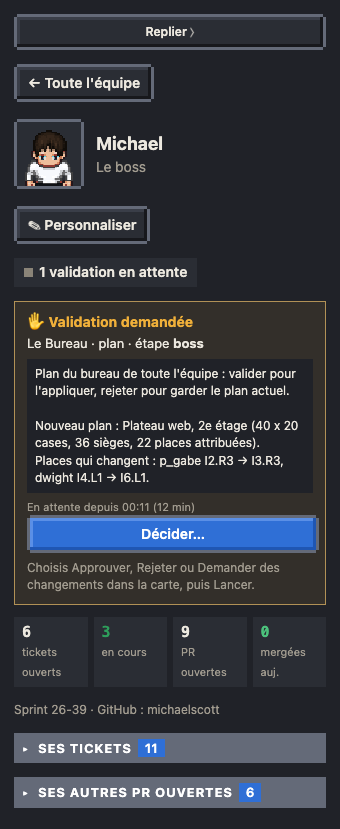
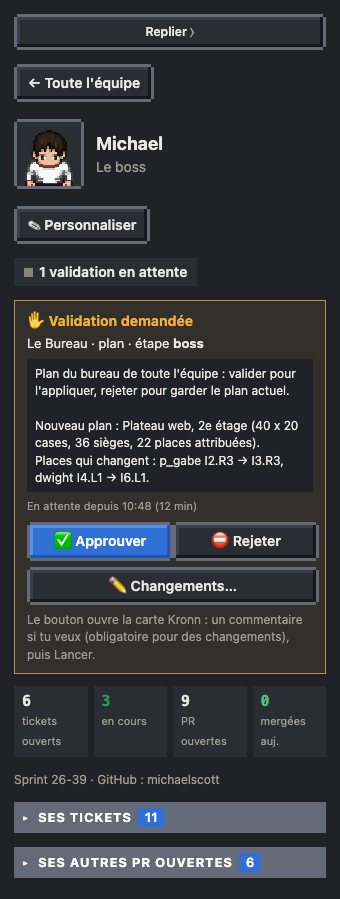
feat(page): trois boutons directs sur chaque validation (#49)
## 🎯 Quoi et pourquoi
Décider une validation demandait trois gestes : « Décider… », choisir
dans le menu « Décision » de la carte Kronn, puis Lancer. Trois boutons
directs, comme pour les réponses aux questions, font choisir la décision
d'un clic (#45).

## 🔧 Changements
- **Page** (`page/src/55-actions.js`) : ✅ Approuver, ⛔ Rejeter (côte à
côte) et ✏ Changements… (dessous) sur chaque carte de validation (fiche
du boss, du personnage qui porte la gate, validations sans personnage).
Chaque bouton a son emplacement : la fenêtre centrée rappelle le
workflow et la décision, la carte Kronn prend le commentaire
(obligatoire pour des changements) puis Lancer.
- **Cron live** (`workflows/gates_snapshot.py`) : `gates.grows`, une
ligne par gate et par décision (`{id: "<run>|<décision>", run,
decision}`).
- **Action de page** `bureau-gate` : `run_id` et `decision` sont deux
liaisons dynamiques sur la même ligne de `grows` (Kronn résout chaque
variable avec sa propre clé) ; plus rien à choisir dans un menu.
`gate_decide.py` ne change pas (en-tête mis à jour) et refuse toujours
une décision périmée ou des changements sans commentaire.
- « En attente depuis » suit l'heure de la page (rejeu compris) au lieu
de l'heure réelle.
- Doc : guides `01-plan` et `07-fiches`, séquence
`docs/architecture/sequences/decision-gate.md`, CHANGELOG ; capture
`validation-plan.png` (gate datée dans la journée de démo).

## 🧪 Tests
- [x] `sh tools/test.sh --chrome` vert (aucun `console.error`)
[…]

Changed region(s): [[0.0294, 0.0302, 0.9706, 0.9952], [0.9412, 0.3317, 0.9706, 0.3619]]

diff --git a/page/src/55-actions.js b/page/src/55-actions.js
@@ -65,11 +65,12 @@ function renderLoneGate(side,run){
   if(!g){const n=document.createElement('div');n.className='note';n.textContent='Cette validation n\'attend plus (déjà décidée).';side.appendChild(n);return;}
   gateCard(side,{run:g.run,wf_name:g.wf_name,_s:ms(g.since)},null);
 }
-// carte de décision d'une gate : le bouton ouvre la carte Kronn (workflow « Le Bureau · décision gate »)
+// carte de décision d'une gate : trois boutons directs (approuver, rejeter, changements, #45), chacun lié à sa ligne de
+// gates.grows ; chacun ouvre la carte Kronn (workflow « Le Bureau · décision gate ») pour un commentaire et Lancer
 function gateCard(parent,run,who){
   const g=GATES.find(x=>x.run===run.run);
-  const box=document.createElement('div');box.className='gatecard';box.setAttribute('data-kronn-action-slot-host','');
-  const since=g&&g.since?ms(g.since):run._s, mins=Math.max(0,Math.round((Date.now()-since)/60e3));
+  const box=document.createElement('div');box.className='gatecard';
+  const since=g&&g.since?ms(g.since):run._s, mins=Math.max(0,Math.round((T-since)/60e3)); // à l'heure de la page (rejeu compris)
   box.innerHTML=`<div class="gt">✋ Validation demandée${who?' · '+esc(who):''}</div><div class="gw">${esc(clean(run.wf_name))}${g?' · étape <b>'+esc(g.gate)+'</b>':''}</div>`+
     (g&&g.message?`<div class="gm">${esc(g.message)}</div>`:'')+`<div class="gs">En attente depuis ${hm(since)}${mins?' ('+fmtDur(mins*60e3)+')':''}</div>`;
   const dk=g?g.run+'|'+g.gate:null;
@@ -88,25 +89,32 @@ function gateCard(parent,run,who){
     box.appendChild(n);
   }
   else if(g){
-    const b=document.createElement('button');
-    b.className='on';
-    b.textContent='Décider…';
-    let clicked=false;
-    b.addEventListener('click',()=>{clicked=true;});
-    b.setAttribute('data-kronn-action','bureau-gate');
-    b.setAttribute('data-kronn-bindings',JSON.stringify({run_id:g.run})); // clé = nom du champ relu ; valeur = la ligne du dataset (find(run)) ; workflow et étape retrouvés par le script
     const st=document.createElement('div');
     st.className='note';
     st.style.margin='6px 0 0';
-    st.textContent='Choisis Approuver, Rejeter ou Demander des changements dans la carte, puis Lancer.';
-    new MutationObserver(()=>{
-      const v=b.getAttribute('data-kronn-action-state');
-      if(v==='succeeded'){
-        st.innerHTML='<b style="color:var(--ok)">✓ Décision appliquée.</b> L\'agent reprend d\'ici une minute sur le plan.';
-        if(clicked&&!DECIDED[dk]){DECIDED[dk]=Date.now();saveDecided();}
-      }else if(v==='failed')st.innerHTML='<b style="color:var(--err)">Décision refusée par Kronn</b> (gate déjà décidée ?). Détail dans la carte.';
-    }).observe(b,{attributes:true,attributeFilter:['data-kronn-action-state']});
-    box.append(b,st);kronnModal(box,b,'Décision de gate');}
+    st.textContent='Le bouton ouvre la carte Kronn : un commentaire si tu veux (obligatoire pour des changements), puis Lancer.';
+    const row=document.createElement('div');row.className='gq';
+    // un emplacement par bouton (comme les réponses aux questions) : la fenêtre centrée montre la décision choisie
+    for(const [d,label,cls] of [['approve','✅ Approuver','on'],['reject','⛔ Rejeter',''],['request_changes','✏ Changements…','']]){
+      const w=document.createElement('div');w.className='qslot';w.setAttribute('data-kronn-action-slot-host','');
+      const b=document.createElement('button');b.textContent=label;if(cls)b.className=cls;
+      const qk=document.createElement('div');qk.className='qkm';qk.innerHTML=`<b>${esc(clean(run.wf_name))}${g.gate?' · étape '+esc(g.gate):''}</b><div>Ta décision : ${label}</div>`;
+      w.append(b,qk);
+      let clicked=false;
+      b.addEventListener('click',()=>{clicked=true;});
+      b.setAttribute('data-kronn-action','bureau-gate');
+      const row_id=g.run+'|'+d; // ligne de gates.grows : Kronn y relit run_id et decision
+      b.setAttribute('data-kronn-bindings',JSON.stringify({run_id:row_id,decision:row_id}));
+      new MutationObserver(()=>{
+        const v=b.getAttribute('data-kronn-action-state');
+        if(v==='succeeded'){
+          st.innerHTML='<b style="color:var(--ok)">✓ Décision appliquée.</b> L\'agent reprend d\'ici une minute sur le plan.';
+          if(clicked&&!DECIDED[dk]){DECIDED[dk]=Date.now();saveDecided();}
+        }else if(v==='failed')st.innerHTML='<b style="color:var(--err)">Décision refusée par Kronn</b> (gate déjà décidée ?). Détail dans la carte.';
+      }).observe(b,{attributes:true,attributeFilter:['data-kronn-action-state']});
+      kronnModal(w,b,'Décision de gate');row.appendChild(w);
+    }
+    box.append(row,st);}
   else{
     const n=document.createElement('div');
     n.className='note';

diff --git a/page/office_template.html b/page/office_template.html
@@ -92,7 +92,7 @@
 <div id="tvwho" aria-live="off"></div>
 <script type="application/kronn-action" data-action-id="bureau-ask">{"kind":"quick_prompt","target_id":"__ASK_QP__","values":[{"name":"wf_id","provenance":"dynamic_binding","source_ref":"<page.dataset.gates.askable.find(wf).wf>"},{"name":"question","provenance":"user_input"}]}</script>
 <script type="application/kronn-action" data-action-id="bureau-relaunch">{"kind":"workflow","target_id":"__RELAUNCH_WF__","values":[{"name":"wf_id","provenance":"dynamic_binding","source_ref":"<page.dataset.gates.workflows.find(wf).wf>"}]}</script>
-<script type="application/kronn-action" data-action-id="bureau-gate">{"kind":"workflow","target_id":"__GATE_WF__","values":[{"name":"run_id","provenance":"dynamic_binding","source_ref":"<page.dataset.gates.gates.find(run).run>"},{"name":"decision","provenance":"user_input"},{"name":"comment","provenance":"user_input"}]}</script>
+<script type="application/kronn-action" data-action-id="bureau-gate">{"kind":"workflow","target_id":"__GATE_WF__","values":[{"name":"run_id","provenance":"dynamic_binding","source_ref":"<page.dataset.gates.grows.find(id).run>"},{"name":"decision","provenance":"dynamic_binding","source_ref":"<page.dataset.gates.grows.find(id).decision>"},{"name":"comment","provenance":"user_input"}]}</script>
 <script type="application/kronn-action" data-action-id="bureau-answer">{"kind":"workflow","target_id":"__ANSWER_WF__","values":[{"name":"choice","provenance":"dynamic_binding","source_ref":"<page.dataset.gates.qrows.find(id).id>"},{"name":"text","provenance":"user_input"}]}</script>
 <script type="application/kronn-action" data-action-id="bureau-impl">{"kind":"workflow","target_id":"__IMPL_WF__","values":[{"name":"jira_ticket_key","provenance":"dynamic_binding","source_ref":"<page.dataset.actions.tickets.find(key).key>"}]}</script>
 <script type="application/kronn-action" data-action-id="bureau-mep">{"kind":"workflow","target_id":"__MEP_WF__","values":[{"name":"jira_ticket_key","provenance":"dynamic_binding","source_ref":"<page.dataset.actions.tickets.find(key).key>"},{"name":"pr_number","provenance":"dynamic_binding","source_ref":"<page.dataset.actions.tickets.find(key).pr>"}]}</script>

diff --git a/tests/boot.test.js b/tests/boot.test.js
@@ -120,3 +120,18 @@ test('panneau : pas de redessin automatique pendant un clic, le bouton cliqué r
   run('sideHold(false,11800)'); // relâchement sans appui dans le panneau : rien à retenir
   assert.equal(draws('renderSide()'), 1);
 });
+
+test('validation : trois boutons directs, chacun lié à sa ligne de gates.grows (run_id et decision relus par Kronn)', () => {
+  const {run} = load();
+  run(`document.createElement = t => ({tag: t, attrs: {}, kids: [], className: '', style: {}, setAttribute(k, v) { this.attrs[k] = v; },
+    getAttribute(k) { return this.attrs[k]; }, appendChild(x) { this.kids.push(x); }, append(...x) { this.kids.push(...x); }, addEventListener() {}});
+    MutationObserver = function () { return {observe() {}}; }; DECIDED = {}; ACTIONS.gate = true;
+    GATES = [{run: 'r1', wf: 'w1', wf_name: 'Le Bureau · plan', gate: 'boss', since: new Date(T - 12 * 60e3).toISOString(), message: 'Nouveau plan'}];
+    var P = {kids: [], appendChild(x) { this.kids.push(x); }}; gateCard(P, {run: 'r1', wf_name: 'Le Bureau · plan', _s: T}, null);`);
+  const btns = JSON.parse(run(`JSON.stringify((() => { const out = [], walk = e => { if (e.tag === 'button') out.push([e.textContent, e.attrs]);
+    (e.kids || []).forEach(walk); }; walk(P.kids[0]); return out; })())`));
+  assert.deepEqual(btns.map(([t]) => t), ['✅ Approuver', '⛔ Rejeter', '✏ Changements…']);
+  for (const [, a] of btns) assert.equal(a['data-kronn-action'], 'bureau-gate');
+  assert.deepEqual(btns.map(([, a]) => JSON.parse(a['data-kronn-bindings'])), ['approve', 'reject', 'request_changes'].map(d => ({run_id: 'r1|' + d, decision: 'r1|' + d})));
+  assert.match(run('P.kids[0].innerHTML'), /En attente depuis .* \(12 min\)/, 'durée à l\'heure de la page');
+});

diff --git a/page/src/styles.css b/page/src/styles.css
@@ -209,6 +209,10 @@ body.km-on .side{z-index:50} /* le panneau est sticky (plan d'empilement propre)
 .gatecard .gw{font-size:13px}
 .gatecard .gm{font-size:12px;margin:6px 0;padding:6px 8px;background:var(--panel);border-radius:8px;white-space:pre-wrap;overflow-wrap:anywhere}
 .gatecard .gs{font-size:11px;color:var(--muted)}
+/* trois décisions directes (#45) : Approuver et Rejeter côte à côte, Changements dessous ; le rappel de la décision
+   (qkm) ne s'affiche que dans la fenêtre centrée */
+.gatecard .gq{display:grid;grid-template-columns:1fr 1fr;gap:6px;margin-top:8px}.gatecard .gq>.qslot:last-child{grid-column:1/3}
+.gatecard .gq button{width:100%;white-space:nowrap}.gatecard .qkm{display:none}
 .gatecard>button{width:100%;margin-top:8px}
 .qcard .qopts{display:flex;flex-direction:column;gap:6px;margin-top:8px}
 .qcard .qopts>.qslot>button{text-align:left;width:100%}

diff --git a/workflows/gates_snapshot.py b/workflows/gates_snapshot.py
@@ -3,7 +3,8 @@
 Sortie (stdout, JSON parsé par l'étape CollectApiData) :
   {generated_at, gates: [{run, wf, wf_name, gate, message, since}], workflows: [{wf, name, trigger}], askable: [{wf, name}],
    projects: [{id, name}], ducks: [{id, title, project, updated, created, awaiting}],
-   questions: [{id, disc, title, agent, bureau, since, question, context, options, rec, multiple, items, more_items}], qrows: [{id, q, disc}]}
+   questions: [{id, disc, title, agent, bureau, since, question, context, options, rec, multiple, items, more_items}], qrows: [{id, q, disc}],
+   grows: [{id, run, decision}]}
 `workflows` = ceux que la page peut relancer (page action « bureau-relaunch ») : actifs, hors Bureau, pas
 sous-workflow d'un autre, sans variable obligatoire à saisir.
 `projects` = les projets Kronn, « Sans projet » (id « none ») en tête : un bouton « parler au canard » chacun (page action
@@ -125,5 +126,8 @@ try:
     json.dump({k: v for k, v in _cache.items() if k in defs}, open(CACHE, "w"))
 except Exception:
     pass
+# une ligne par décision possible de chaque gate (#45) : les boutons directs de la page (approuver, rejeter, changements)
+# en désignent une, Kronn y relit run_id et decision (page action « bureau-gate »), jamais saisis
+grows = [{"id": f"{g['run']}|{d}", "run": g["run"], "decision": d} for g in gates for d in ("approve", "reject", "request_changes")]
 print(json.dumps({"generated_at": datetime.now(timezone.utc).isoformat(), "gates": gates, "workflows": relaunch, "askable": askable,
-                  "projects": projects, "ducks": ducks, "questions": questions, "qrows": qrows}, ensure_ascii=False))
+                  "projects": projects, "ducks": ducks, "questions": questions, "qrows": qrows, "grows": grows}, ensure_ascii=False))

diff --git a/tools/shots.py b/tools/shots.py
@@ -113,7 +113,7 @@ SHOTS = {
     "avatar": (1400, 1600, AT(11) + "select('jim');openEditor(byKey.jim);", "#side"),
     # plan d'équipe proposé par « python3 tools/plan.py share » : la validation dans la fiche du boss (pas de personnage pour ce workflow)
     "validation-plan": (1400, 1200, AT(11) + "GATES=[{run:'demo',wf:'00000000-demo',wf_name:'Le Bureau · plan',gate:'boss',"
-                        "since:new Date(Date.now()-12*60e3).toISOString(),message:\"Plan du bureau de toute l'équipe : valider pour l'appliquer, rejeter pour garder le plan actuel.\\n\\n"
+                        "since:new Date(DAY0+10.8*36e5).toISOString(),message:\"Plan du bureau de toute l'équipe : valider pour l'appliquer, rejeter pour garder le plan actuel.\\n\\n"
                         "Nouveau plan : Plateau web, 2e étage (40 x 20 cases, 36 sièges, 22 places attribuées).\\n"
                         "Places qui changent : p_gabe I2.R3 → I3.R3, dwight I4.L1 → I6.L1.\"}];select(chars.find(c=>c.boss).key);", "#side"),
     # la même validation vue sur le plan : le boss reste à son bureau avec la bulle ✋1 (zone rognée posée sur la toile, comme canard-attend)

diff --git a/workflows/gate_decide.py b/workflows/gate_decide.py
@@ -1,9 +1,9 @@
 """Décide une gate depuis la page Le Bureau (page action « bureau-gate »).
 
 Arguments : run_id decision [comment]
-  run_id : relu par Kronn dans le dataset `gates` (ligne cliquée), jamais saisi ; le workflow et l'étape
-           sont retrouvés ici dans ce même dataset (un seul champ automatique dans la carte)
-  decision : approve | reject | request_changes (menu de la carte)
+  run_id, decision : relus par Kronn dans la ligne cliquée de `gates.grows` (un bouton par décision : approve |
+           reject | request_changes), jamais saisis ; le workflow et l'étape sont retrouvés ici dans `gates.gates`
+  comment : saisi dans la carte (obligatoire pour demander des changements)
 Appelle POST /api/workflows/{wf}/runs/{run}/decide avec gate_step : Kronn refuse si le run
 n'attend plus CETTE gate (décision périmée), donc rien d'autre ne peut être validé par erreur.
 """

diff --git a/tests/test_scripts.py b/tests/test_scripts.py
@@ -757,6 +757,8 @@ print(json.dumps(d.get(key, [])))
         fake.details[run["id"]] = [{"step_name": "gate", "status": "WaitingApproval", "output": "Nouveau plan : 36 sièges"}]
         gates = self.run_script("gates_snapshot.py", api=self.kronn(fake))
         self.assertEqual([g["message"] for g in gates["gates"]], ["Nouveau plan : 36 sièges"])
+        # une ligne par décision (boutons directs de la page, #45) : Kronn y relit run_id et decision
+        self.assertEqual(gates["grows"], [{"id": f"{run['id']}|{d}", "run": run["id"], "decision": d} for d in ("approve", "reject", "request_changes")])
 
     def test_standup_since_format(self):
         r = subprocess.run([sys.executable, os.path.join(ROOT, "workflows", "standup_since.py")], capture_output=True, text=True,

diff --git a/docs/architecture/sequences/decision-gate.md b/docs/architecture/sequences/decision-gate.md
@@ -1,6 +1,6 @@
 # Décider une gate depuis la page
 
-Cette séquence décrit comment le boss approuve, rejette ou renvoie une gate d'un workflow d'agent depuis la page. Elle commence au clic sur une carte de gate (bouton `data-kronn-action="bureau-gate"`, lié à la ligne `run` du dataset `gates`) [src: file: page/src/55-actions.js:96] et se termine quand Kronn a changé le statut du run et que le cron live republie `gates` sans cette ligne. Elle touche la page, Kronn (action de page et workflow manuel « Le Bureau · décision gate ») et le script `gate_decide.py` [src: file: workflows/templates/gate.json:8].
+Cette séquence décrit comment le boss approuve, rejette ou renvoie une gate d'un workflow d'agent depuis la page. Elle commence au clic sur un des trois boutons d'une carte de gate (Approuver, Rejeter, Changements ; `data-kronn-action="bureau-gate"`, chacun lié à sa ligne de `gates.grows`) [src: file: page/src/55-actions.js:105] et se termine quand Kronn a changé le statut du run et que le cron live republie `gates` sans cette ligne. Elle touche la page, Kronn (action de page et workflow manuel « Le Bureau · décision gate ») et le script `gate_decide.py` [src: file: workflows/templates/gate.json:8].
 
 ```mermaid
 sequenceDiagram
@@ -11,10 +11,10 @@ sequenceDiagram
     participant Script as gate_decide.py
     participant Api as Kronn API locale
 
-    Boss->>Page: clic sur la carte de gate
-    Page->>Kronn: data-kronn-action bureau-gate avec run_id
-    Kronn-->>Boss: carte avec decision et commentaire
-    Boss->>Kronn: approve, reject ou request_changes
+    Boss->>Page: clic sur Approuver, Rejeter ou Changements
+    Page->>Kronn: data-kronn-action bureau-gate, ligne run et decision de grows
+    Kronn-->>Boss: carte avec la decision et un commentaire
+    Boss->>Kronn: Lancer
     Kronn->>Wf: lance le workflow avec run_id, decision, comment
     Wf->>Script: python3 -c avec les trois arguments
     Script->>Api: GET pages id pour relire le dataset gates
@@ -28,7 +28,7 @@ sequenceDiagram
 
 ## Notes
 
-- Le `run_id` n'est jamais saisi : Kronn le relit dans le dataset `gates` (`dynamic_binding`, `find(run)`) [src: file: page/office_template.html:95].
+- Ni `run_id` ni `decision` ne sont saisis : Kronn les relit dans la ligne cliquée de `gates.grows` (`dynamic_binding`, `find(id)`, une ligne par gate et par décision) [src: file: page/office_template.html:95] [src: file: workflows/gates_snapshot.py:131].
 - Le script retrouve workflow et étape dans le même dataset et envoie `gate_step` : Kronn refuse une décision périmée (le run n'attend plus cette gate) [src: file: workflows/gate_decide.py:7].
 - `request_changes` sans commentaire échoue avant tout appel [src: file: workflows/gate_decide.py:38].
 - La page observe `data-kronn-action-state` pour mettre à jour la carte [src: file: page/src/55-actions.js:103].

diff --git a/guide/fonctionnalites/07-fiches.md b/guide/fonctionnalites/07-fiches.md
@@ -9,9 +9,9 @@ Clic sur un personnage (plan, panneau ou « Qui fait quoi ») : sa fiche s'ouvre
 **Agent** : runs, réussites, échecs et tokens du jour, workflows, sa journée run par run avec les étapes et les erreurs. Boutons (cartes Kronn, sans token sauf « interroger ») :
 - **Relancer** : relance le workflow, sans variables (refusé s'il tourne déjà). Absent pour un workflow qui attend une saisie obligatoire, comme Réestimer : celui-là se lance depuis la fiche du ticket, qui envoie la clé et te demande le reste.
 - **Lui poser une question** : un agent IA lit ses runs et répond en 5 phrases.
-- **Décider** une validation : approuver, rejeter ou demander des changements.
+- **Décider** une validation : trois boutons directs, ✅ Approuver, ⛔ Rejeter, ✏ Changements… ; la carte Kronn qui s'ouvre prend un commentaire (obligatoire pour des changements), puis Lancer.
 
-**Boss** (ton personnage) : ce qui attend ta décision, chaque validation avec sa carte « Décider… » : celles de tes agents, et celles des workflows qui n'ont pas de personnage sur le plan (« Le Bureau · plan », qui propose un nouveau plan pour toute l'équipe). Puis chaque question qu'une discussion Kronn t'a posée et qui attend encore (14 jours, comme le canard) : celles des visiteurs, du canard et des agents interrogés depuis la page. Tant qu'une validation ou une question t'attend, ton personnage porte la bulle ✋ avec leur nombre, et le récap de la journée le rappelle.
+**Boss** (ton personnage) : ce qui attend ta décision, chaque validation avec ses trois boutons (Approuver, Rejeter, Changements) : celles de tes agents, et celles des workflows qui n'ont pas de personnage sur le plan (« Le Bureau · plan », qui propose un nouveau plan pour toute l'équipe). Puis chaque question qu'une discussion Kronn t'a posée et qui attend encore (14 jours, comme le canard) : celles des visiteurs, du canard et des agents interrogés depuis la page. Tant qu'une validation ou une question t'attend, ton personnage porte la bulle ✋ avec leur nombre, et le récap de la journée le rappelle.
 
 ![Questions des discussions dans la fiche du boss](../img/questions.png)
 

diff --git a/guide/fonctionnalites/01-plan.md b/guide/fonctionnalites/01-plan.md
@@ -158,7 +158,7 @@ python3 tools/plan.py share mon-plan.json    # le proposer à toute l'équipe
 python3 tools/plan.py share defaut           # revenir au plan de l'installation
 ```
 
-`share` lance le workflow « Le Bureau · plan » : il revérifie le plan, puis attend la validation du boss. La demande apparaît dans la fiche du boss (clic sur son personnage, qui porte alors la bulle ✋), avec son résumé (taille, sièges, places qui changent) et le bouton « Décider ». Une fois validé, la page se redessine sans rechargement et chacun rejoint sa nouvelle place. Un plan refusé n'est jamais publié.
+`share` lance le workflow « Le Bureau · plan » : il revérifie le plan, puis attend la validation du boss. La demande apparaît dans la fiche du boss (clic sur son personnage, qui porte alors la bulle ✋), avec son résumé (taille, sièges, places qui changent) et ses boutons Approuver, Rejeter, Changements. Une fois validé, la page se redessine sans rechargement et chacun rejoint sa nouvelle place. Un plan refusé n'est jamais publié.
 
 | Sur le plan : la bulle ✋ du boss | Dans sa fiche : la carte de décision |
 | --- | --- |

diff --git a/CHANGELOG.md b/CHANGELOG.md
@@ -8,6 +8,7 @@ Format : [Keep a Changelog](https://keepachangelog.com/fr/1.1.0/). Versions : `0
 
 ### Ajouté
 
+- Trois boutons directs sur chaque validation (✅ Approuver, ⛔ Rejeter, ✏ Changements…) au lieu de « Décider… » et de son menu (#45).
 - Captures d'un pack d'équipe : `tools/shots.py --team <pack>` refait les captures du guide avec l'équipe du pack (la démo lui est réattribuée, boss compris), dans `<pack>/guide/img/`.
 - Aperçu local avant le merge : `python3 tools/preview.py` montre la page de ta branche avec tes vraies données, sans rien publier.
 - Courrier : tes mails non lus (appli Mail du Mac, Gmail ou autre par IMAP, plusieurs comptes), relevés toutes les 10 min sans jamais le contenu ; une boîte aux lettres par compte à côté du bureau du boss et la fiche Courrier ; le facteur qui dépose le courrier et vient proposer les règles du tri (validées par le boss) ; des porteurs qui remettent certains mails en personne et restent jusqu'à leur lecture dans ta messagerie.
